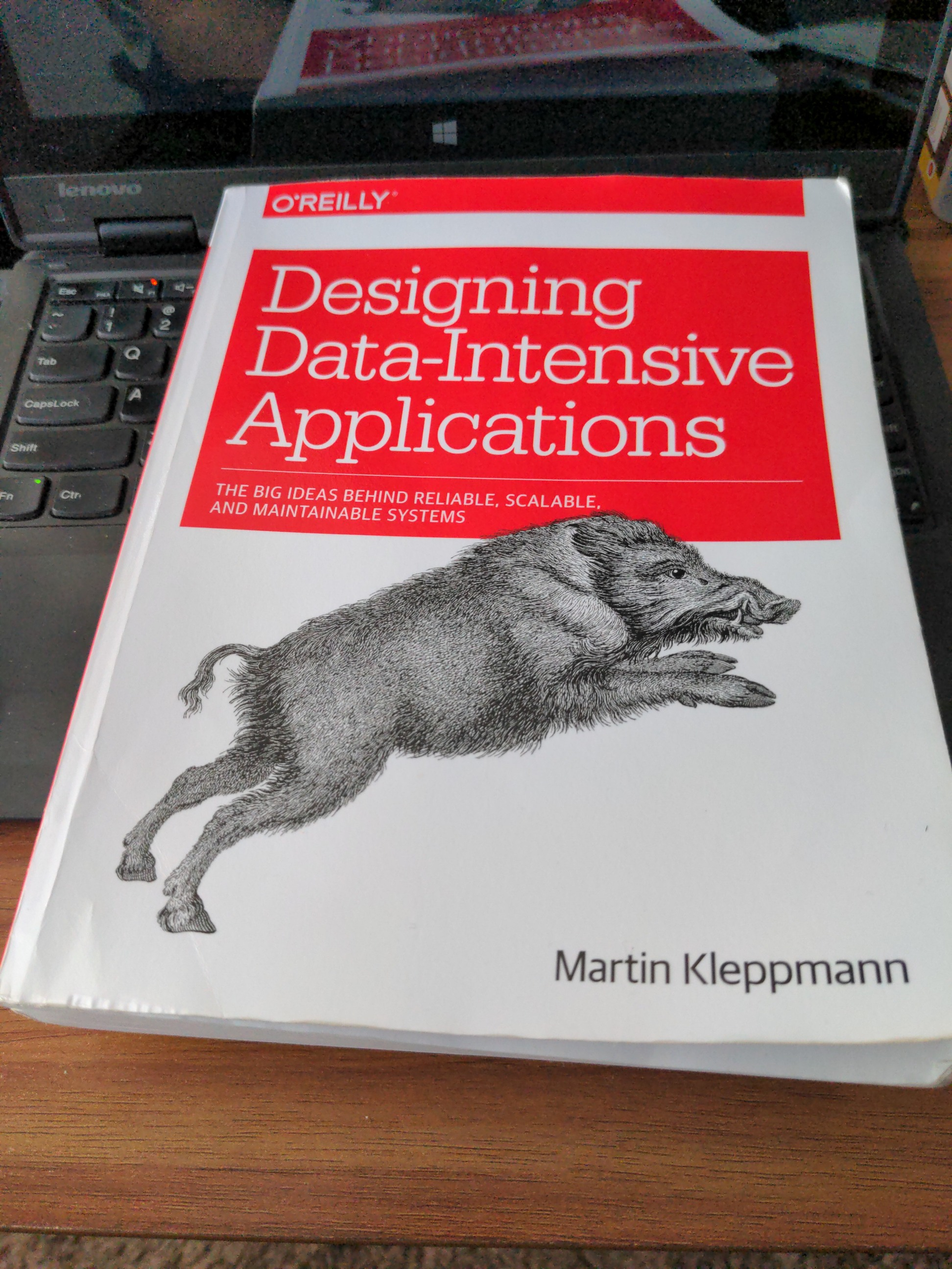
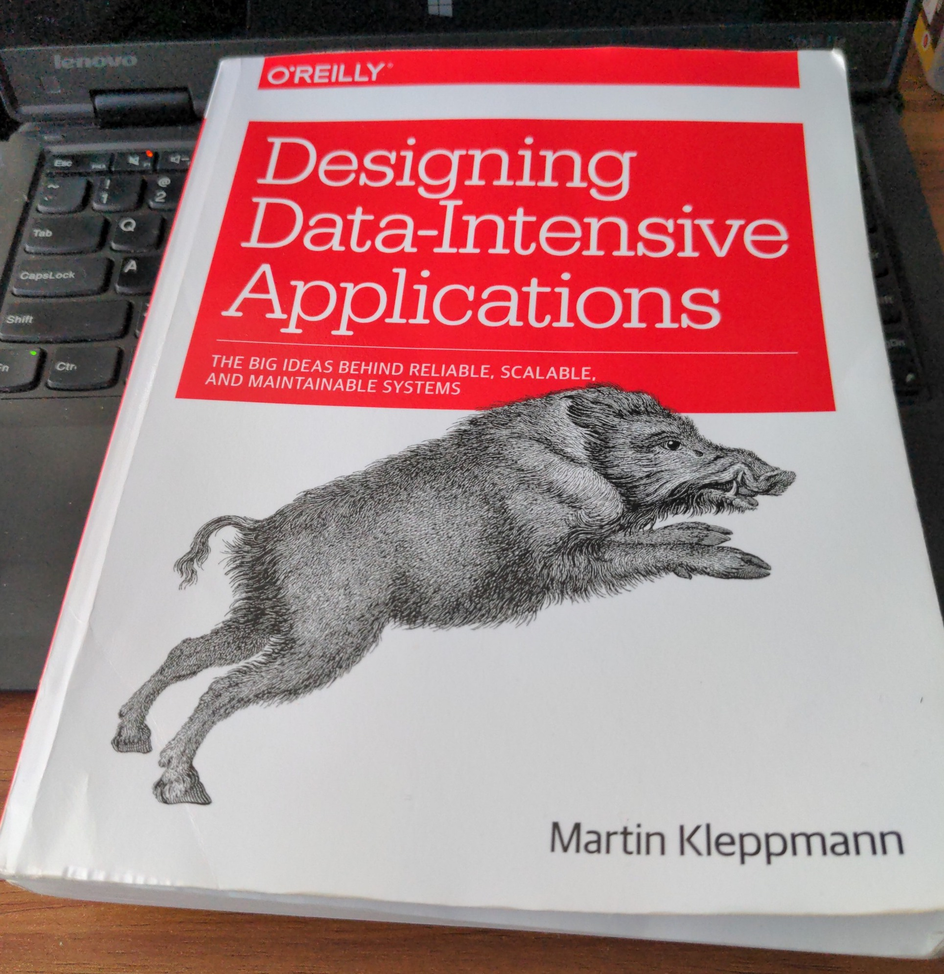
Adjusted thumbnail size

diff --git a/_posts/2022-02-27-the-meaning-of-acid.md b/_posts/2022-02-27-the-meaning-of-acid.md
@@ -7,14 +7,12 @@ date: 2022-02-27 07:00:00 -0700
 tags: mysql
 published: true
 mathjax: true
-image: /assets/kleppmann.png
+image: /assets/kleppmann.jpg
 ---
 
 For backend/full-stack software engineers and system design interviews, I highly recommend ["Designing Data-Intensive Applications: The Big Ideas Behind Reliable, Scalable, and Maintainable Systems"](https://amzn.to/3IulnU3) by Dr. Martin Kleppmann.
 
-<a target="_blank"  href="https://www.amazon.com/gp/product/1449373321/ref=as_li_tl?ie=UTF8&camp=1789&creative=9325&creativeASIN=1449373321&linkCode=as2&tag=imiguel-20&linkId=08cc53d41e2a038d1cbc333a4eb285b1"><img border="0" src="//ws-na.amazon-adsystem.com/widgets/q?_encoding=UTF8&MarketPlace=US&ASIN=1449373321&ServiceVersion=20070822&ID=AsinImage&WS=1&Format=_SL250_&tag=imiguel-20" ></a>
-
-I want to share how this book explains ACID consistency.  ACID is a set of properties intended to guarantee data validity after any transaction, which can sometimes be composed of multiple database operations.  A transaction satisfies the ACID properties if it
+[![Kleppmann Book Cover](/assets/kleppmann.jpg)](https://amzn.to/3IulnU3) I want to share how this book explains ACID consistency.  ACID is a set of properties intended to guarantee data validity after any transaction, which can sometimes be composed of multiple database operations.  A transaction satisfies the ACID properties if it
 
 - completely fails, returning the database to its original state by discarding all writes, when any of its statements fail to complete (atomicity),
 - transitions the database from one valid state to another (consistency),
